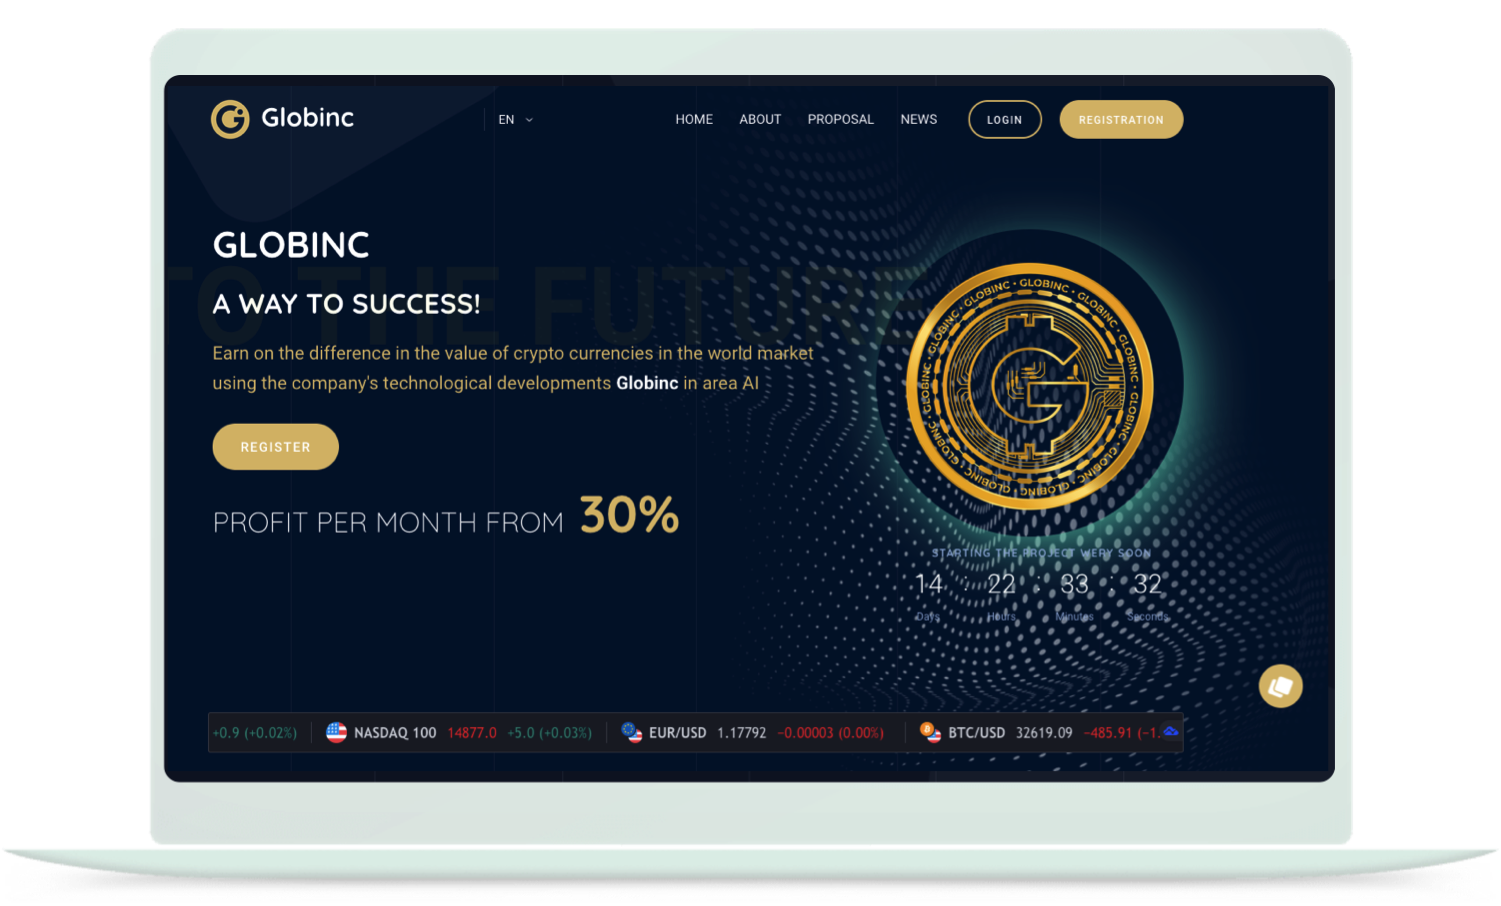
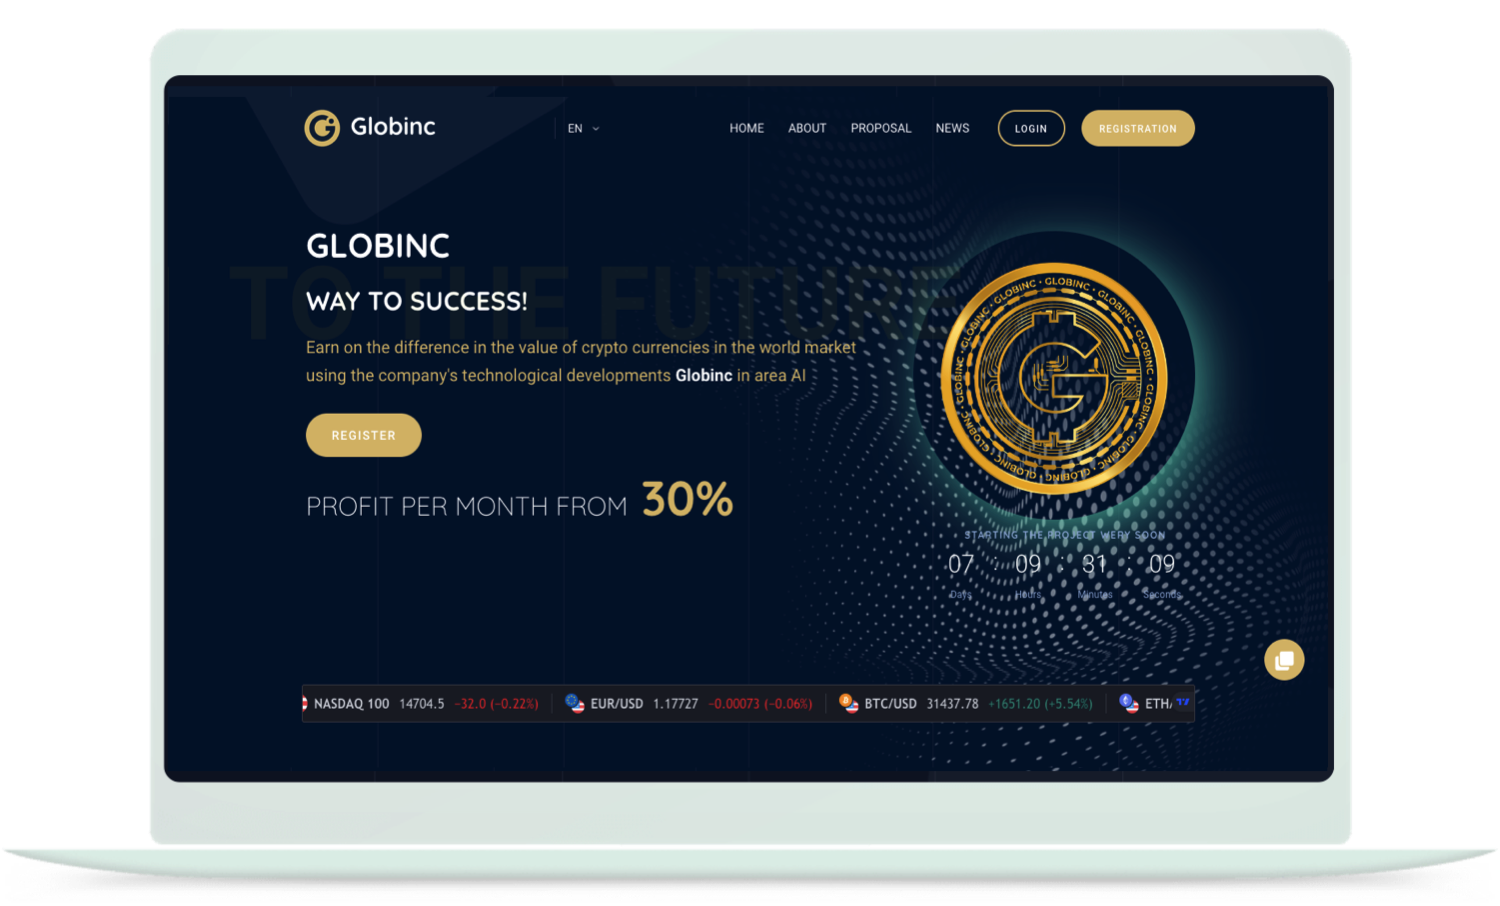
calculator
calculator

Changed region(s): [[0.1227, 0.2472, 0.8893, 0.8344], [0.46, 0.0927, 0.7973, 0.1854], [0.1227, 0.0927, 0.3067, 0.1545]]

diff --git a/resources/views/ru/app/proposal.blade.php b/resources/views/ru/app/proposal.blade.php
@@ -147,30 +147,30 @@
                                             <td>МЕНЕДЖЕР</td>
                                             <td>1 000</td>
                                             <td>6,5</td>
-                                            <td>150</td>
+                                            <td>100</td>
                                         </tr>
                                         <td>СТАРШИЙ МЕНЕДЖЕР</td>
                                         <td>2 000</td>
                                         <td>7</td>
-                                        <td>200</td>
+                                        <td>-</td>
                                         </tr>
                                         <tr>
                                             <td>РЕГИОНАЛЬНЫЙ МЕНЕДЖЕР</td>
                                             <td>5 000</td>
                                             <td>7,5</td>
-                                            <td>250</td>
+                                            <td>200</td>
                                         </tr>
                                         <tr>
                                             <td>ИСПОЛНИТЕЛЬНЫЙ МЕНЕДЖЕР</td>
                                             <td>10 000</td>
                                             <td>8</td>
-                                            <td>300</td>
+                                            <td>200</td>
                                         </tr>
                                         <tr>
                                             <td>КУРАТОР</td>
                                             <td>20 000</td>
                                             <td>8,5</td>
-                                            <td>350</td>
+                                            <td>300</td>
                                         </tr>
                                            <tr>
                                             <td>СТАРШИЙ КУРАТОР</td>
@@ -182,7 +182,7 @@
                                             <td>РЕГИОНАЛЬНЫЙ КУРАТОР</td>
                                             <td>40 000</td>
                                             <td>9,5</td>
-                                            <td>450</td>
+                                            <td>500</td>
                                         </tr>
                                         <tr>
                                             <td>ИСПОЛНИТЕЛЬНЫЙ КУРАТОР</td>

diff --git a/resources/views/uk/app/proposal.blade.php b/resources/views/uk/app/proposal.blade.php
@@ -149,30 +149,30 @@
                                             <td>МЕНЕДЖЕР</td>
                                             <td>1 000</td>
                                             <td>6,5</td>
-                                            <td>150</td>
+                                            <td>100</td>
                                         </tr>
                                         <td>СТАРШИЙ МЕНЕДЖЕР</td>
                                         <td>2 000</td>
                                         <td>7</td>
-                                        <td>200</td>
+                                        <td>-</td>
                                         </tr>
                                         <tr>
                                             <td>РЕГІОНАЛЬНЫЙ МЕНЕДЖЕР</td>
                                             <td>5 000</td>
                                             <td>7,5</td>
-                                            <td>250</td>
+                                            <td>200</td>
                                         </tr>
                                         <tr>
                                             <td>ВИКОНАВЧИЙ МЕНЕДЖЕР</td>
                                             <td>10 000</td>
                                             <td>8</td>
-                                            <td>300</td>
+                                            <td>200</td>
                                         </tr>
                                         <tr>
                                             <td>КУРАТОР</td>
                                             <td>20 000</td>
                                             <td>8,5</td>
-                                            <td>350</td>
+                                            <td>300</td>
                                         </tr>
                                            <tr>
                                             <td>СТАРШИЙ КУРАТОР</td>
@@ -184,7 +184,7 @@
                                             <td>РЕГІОНАЛЬНЫЙ КУРАТОР</td>
                                             <td>40 000</td>
                                             <td>9,5</td>
-                                            <td>450</td>
+                                            <td>500</td>
                                         </tr>
                                         <tr>
                                             <td>ВИКОНАВЧИЙ КУРАТОР</td>

diff --git a/resources/views/en/app/proposal.blade.php b/resources/views/en/app/proposal.blade.php
@@ -148,31 +148,31 @@
                                         <td>MANAGER</td>
                                         <td>1 000</td>
                                         <td>6,5</td>
-                                        <td>150</td>
+                                        <td>100</td>
                                     </tr>
                                     <tr>
                                         <td>SENIOR MANAGER</td>
                                         <td>2 000</td>
                                         <td>7</td>
-                                        <td>200</td>
+                                        <td>-</td>
                                     </tr>
                                     <tr>
                                         <td>REGIONAL MANAGER</td>
                                         <td>5 000</td>
                                         <td>7,5</td>
-                                        <td>250</td>
+                                        <td>200</td>
                                     </tr>
                                     <tr>
                                         <td>EXECUTIVE MANAGER</td>
                                         <td>10 000</td>
                                         <td>8</td>
-                                        <td>300</td>
+                                        <td>200</td>
                                     </tr>
                                     <tr>
                                         <td>CURATOR</td>
                                         <td>20 000</td>
                                         <td>8,5</td>
-                                        <td>350</td>
+                                        <td>300</td>
                                     </tr>
                                     <tr>
                                         <td>SENIOR CURATOR</td>
@@ -184,7 +184,7 @@
                                         <td>REGIONAL CURATOR</td>
                                         <td>40 000</td>
                                         <td>9,5</td>
-                                        <td>450</td>
+                                        <td>500</td>
                                     </tr>
                                     <tr>
                                         <td>EXECUTIVE CURATOR</td>

diff --git a/resources/views/en/app/home.blade.php b/resources/views/en/app/home.blade.php
@@ -18,7 +18,7 @@
                         <div class="banner-caption">
                             <div class="section-head section-head-s2" style="padding-bottom: 10px;">
                                 <h1 class="title title-xl title-glob ns" title="" style=""><span style="color: white; font-weight: 900;">Globinc</span><span  style="color: white; font-weight: 300;"></span></h1>
-                                <h3 class="title title-xl title-glob" title="TO THE FUTURE" style="padding-bottom: 10px;">a way to success!</h3>
+                                <h3 class="title title-xl title-glob" title="TO THE FUTURE" style="padding-bottom: 10px;"> way to success!</h3>
                             </div>
                             <p class="lead" style="font-size: 1.3rem; color: #dabd75;">Earn on the difference in the value of crypto currencies in the world market using the company's technological developments <span style="color: white; font-weight: 900;">Globinc</span><span  style="color: white; "></span> in area AI</p>
                             <div class="cpn-action" >

diff --git a/resources/views/layouts/appru.blade.php b/resources/views/layouts/appru.blade.php
@@ -173,6 +173,7 @@
             <div class="ovm-line"></div>
         </div>
         <div class="preloader preloader-alt no-split"><span class="spinner spinner-alt"><img class="spinner-brand" src="{{asset('../images/bitcoin2.png')}}"></span></div>
+        <script src="{{ asset('js/cal.js') }}"></script>
         <script src="{{ asset('js/classie.js') }}"></script>
         <script src="{{ asset('js/jquery.bundle.js?ver=1930') }}"></script>
         <script src="{{ asset('js/jquery.magnific-popup.min.js') }}"></script>

diff --git a/resources/views/layouts/app.blade.php b/resources/views/layouts/app.blade.php
@@ -179,6 +179,7 @@
     <script src="{{ asset('js/classie.js') }}"></script>
     <script src="{{ asset('js/jquery.bundle.js?ver=1930') }}"></script>
     <script src="{{ asset('js/jquery.magnific-popup.min.js') }}"></script>
+    @yield('script')
     <script src="{{ asset('js/scripts.js?ver=1930') }}"></script>
     <script src="{{ asset('js/charts.js') }}"></script>
     <script src="{{ asset('js/toastr.examples.js?ver=1930')}}"></script>
